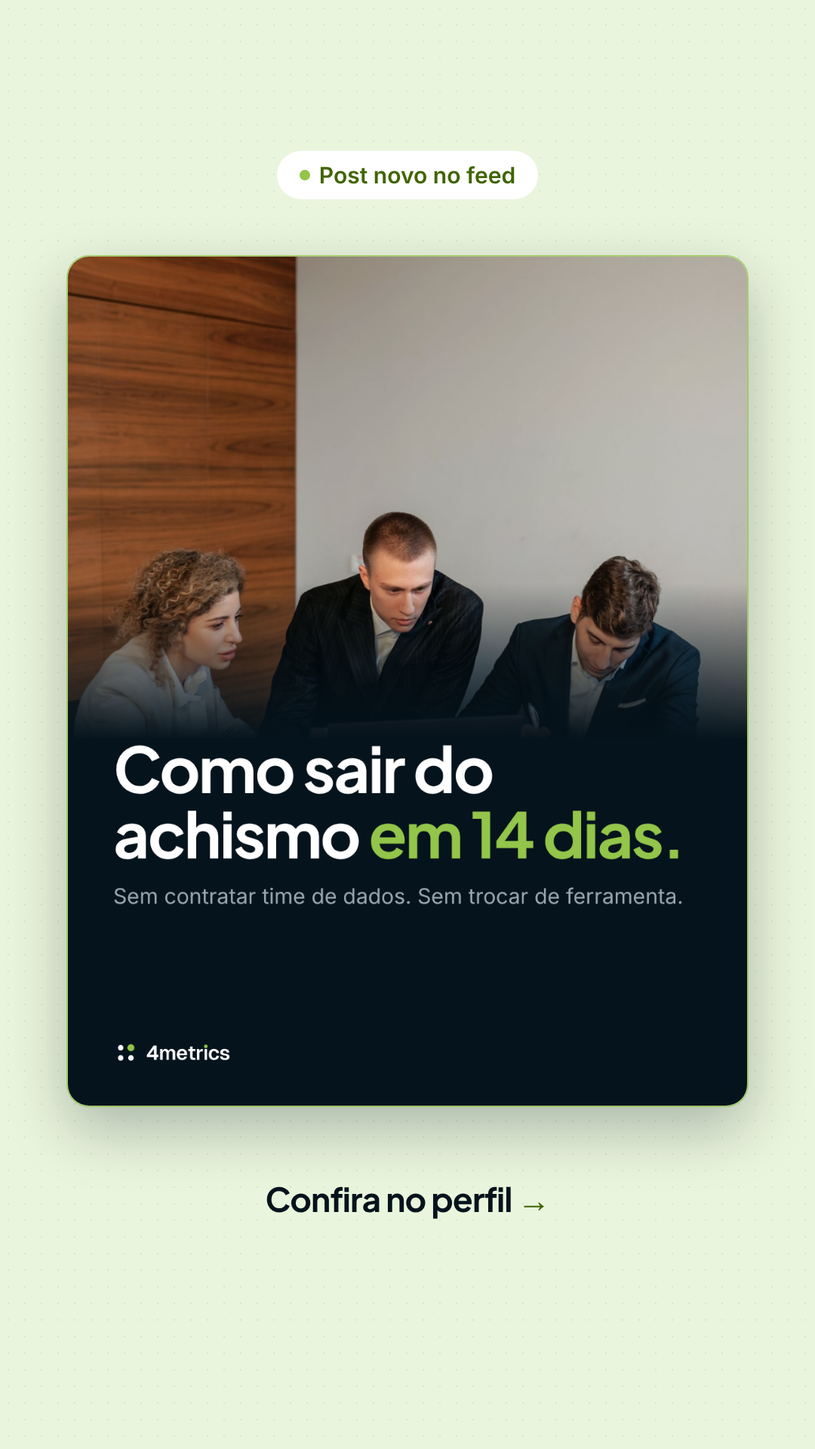
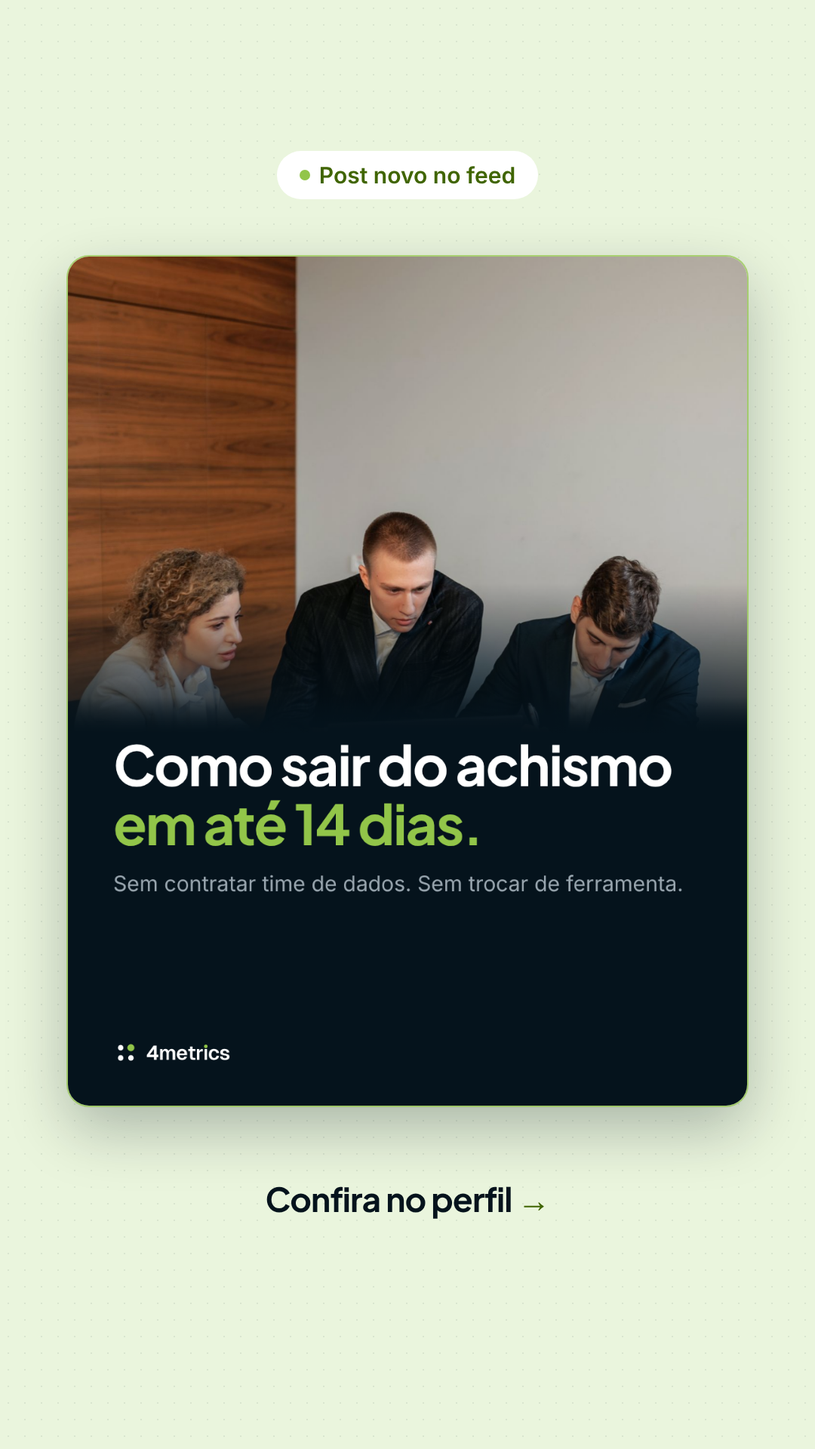
Pauta do site v2: fotos de banco de imagem nas capas do feed e na abertura dos stories
Claude-Session: https://claude.ai/code/session_01Kt7fy7HPrgyLGaKQANdjYb

Changed region(s): [[0.1222, 0.5, 0.825, 0.625]]

diff --git a/kit/tools/pauta_site.py b/kit/tools/pauta_site.py
@@ -15,6 +15,11 @@ BG = {
  "claro": (f"{DOTL},radial-gradient(700px 700px at 95% 0%,rgba(146,197,73,.22),transparent 65%),#FFFFFF", "l"),
  "lima": (f"radial-gradient(rgba(5,19,28,.10) 1px,transparent 1.2px) 0 0/22px 22px,linear-gradient(200deg,#B5DB7E 0%,{LIME} 45%,#7FB23A 100%)", "m"),
 }
+PH = "/home/claude/out/stock/full"
+def phbg(pid, pos="center"):
+    return (f"{DOTD},linear-gradient(180deg,rgba(5,19,28,.18) 0%,rgba(5,19,28,.58) 38%,rgba(5,19,28,.93) 100%),radial-gradient(900px 700px at 90% 0%,rgba(146,197,73,.35),transparent 60%),url(file://{PH}/{pid}.jpg) {pos}/cover no-repeat", "d")
+def phcard(pid, h, radius="28px", pos="center", extra=""):
+    return f'<div class="feat" style="position:relative;height:{h}px;border-radius:{radius};overflow:hidden;background:linear-gradient(200deg,rgba(146,197,73,.28),rgba(5,19,28,0) 45%),url(file://{PH}/{pid}.jpg) {pos}/cover;{extra}"></div>'
 CSS = ff + f"""*{{box-sizing:border-box}} body{{margin:0;background:#777}}
 .f{{position:relative;overflow:hidden;font-family:'Inter';display:flex;flex-direction:column;margin-bottom:20px}}
 .fe{{width:1080px;height:1350px;padding:72px 72px 150px;gap:30px}}
@@ -47,7 +52,7 @@ def pillc(t):
     return {"l": f"background:#fff;color:{G};border:1px solid #CFE3B6", "d": f"background:rgba(146,197,73,.16);color:{LIME};border:1px solid rgba(146,197,73,.45)", "m": f"background:rgba(255,255,255,.4);color:{NAVY};border:1px solid rgba(5,19,28,.2)"}[t]
 FR = []
 def frame(name, kind, bg, body, pill=None, logo=True):
-    css, t = BG[bg]
+    css, t = phbg(*bg.split(":")[1:]) if bg.startswith("ph:") else BG[bg]
     ink = "#fff" if t == "d" else NAVY
     acc = "#FFFFFF" if t == "m" else LIME
     lg = f'<div class="foot">{SYM(44 if kind=="st" else 40,dots=ink,accent=acc)}{WORD(36 if kind=="st" else 32,ink,acc)}</div>' if logo else ""
@@ -74,15 +79,15 @@ def metric_card(kind):
 {line("Fórmula","receita faturada ÷ pedidos")}{line("Fonte","ERP")}{line("Versão","v3 · aprovada pelo comercial")}{line("Usada em","painel · alerta · resumo · sua IA")}</div>'''
 
 # ======================= T10 · 67% · 04/12 · estático névoa
-frame("2026-12-04-confianca-67-v1","fe","nevoa",f'''
-<div style="display:flex;flex-direction:column;gap:6px;margin-top:6px"><div class="pj" style="font-size:230px;line-height:210px;letter-spacing:-0.05em;color:{G}">67%</div>
+frame("2026-12-04-confianca-67-v2","fe","nevoa",f'''
+<div style="display:flex;flex-direction:column;gap:6px;margin-top:6px"><div style="display:flex;align-items:center;gap:36px"><div class="pj" style="font-size:210px;line-height:190px;letter-spacing:-0.05em;color:{G}">67%</div><div style="flex:1">{phcard("5716001",190,"999px","center")}</div></div>
 <h1 style="font-size:66px;line-height:74px">das organizações ainda não confiam totalmente <span class="hl">nos dados que usam para decidir.</span></h1></div>
 <div class="mid"><div class="card" style="padding:34px 38px;display:flex;flex-direction:column;gap:22px">
 {"".join(f'<div style="display:flex;align-items:center;gap:22px"><span style="width:96px;font-size:26px;font-weight:600" class="mut">{y}</span><div style="flex:1;height:44px;border-radius:12px;background:#EEF2EF;overflow:hidden"><div style="width:{v}%;height:100%;border-radius:12px;background:{c}"></div></div><span class="pj" style="width:100px;font-size:36px;text-align:right">{v}%</span></div>' for y,v,c in (("2023",55,"#C9DEB0"),("2024",67,LIME)))}
 <span class="mut" style="font-size:24px">A desconfiança cresceu em um ano.</span></div></div>
 <div style="position:absolute;right:72px;bottom:58px;text-align:right" class="src mut">Fonte: Precisely e Drexel University,<br>2025 Outlook: Data Integrity Trends and Insights</div>''', "Dados de mercado")
-S = "2026-12-04-st-confianca-67"
-frame(S+"-01","st","mesh",f'<div class="mid" style="gap:40px"><h1 style="font-size:128px;line-height:130px">2 em cada 3 empresas <span class="hl">não confiam no próprio número.</span></h1></div>',"Dados de mercado")
+S = "2026-12-04-st-confianca-67-v2"
+frame(S+"-01","st","ph:3184292",f'<div class="mid" style="gap:40px"><h1 style="font-size:128px;line-height:130px">2 em cada 3 empresas <span class="hl">não confiam no próprio número.</span></h1></div>',"Dados de mercado")
 frame(S+"-02","st","nevoa",f'''<h1>E a desconfiança <span class="hl">está crescendo.</span></h1><div class="mid" style="gap:30px">
 {"".join(f'<div style="display:flex;flex-direction:column;gap:14px"><div style="display:flex;justify-content:space-between"><span class="mut" style="font-size:34px;font-weight:600">{y}</span><span class="pj" style="font-size:72px">{v}%</span></div><div style="height:56px;border-radius:14px;background:#E3EADF;overflow:hidden"><div style="width:{v}%;height:100%;background:{c}"></div></div></div>' for y,v,c in (("2023",55,"#C9DEB0"),("2024",67,LIME)))}
 <p class="src mut" style="margin-top:20px">Organizações que não confiam totalmente nos dados que usam para decidir. Fonte: Precisely e Drexel University, 2025 Outlook: Data Integrity Trends and Insights.</p></div>''')
@@ -90,8 +95,8 @@ frame(S+"-03","st","dark",f'<h1>O sintoma: <span class="hl">cada área chega com
 frame(S+"-04","st","lima",f'<h1>Com a 4metrics: <span class="hl">um número oficial.</span></h1><div class="mid" style="gap:40px">{oficial("st")}<p class="lead mut">Uma regra por métrica, verificada, igual para todo mundo.</p>{cta("st","Responda: DIAGNÓSTICO")}</div>')
 
 # ======================= T6 · fila · 07/12 · stories (feed = Reel)
-S = "2026-12-07-st-fila-relatorios"
-frame(S+"-01","st","dark",f'<div class="mid"><h1 style="font-size:124px;line-height:128px">Seu time de dados virou <span class="hl">fila de relatórios?</span></h1></div>',"Custo da demora")
+S = "2026-12-07-st-fila-relatorios-v2"
+frame(S+"-01","st","ph:7688336",f'<div class="mid"><h1 style="font-size:124px;line-height:128px">Seu time de dados virou <span class="hl">fila de relatórios?</span></h1></div>',"Custo da demora")
 tk = [("#124","Receita por canal","há 6 dias"),("#125","CAC de outubro","há 4 dias"),("#126","Leads parados no funil","há 3 dias"),("#127","Meta x realizado por loja","há 1 dia")]
 frame(S+"-02","st","nevoa",f'''<h1>Um pedido <span class="hl">para cada número.</span></h1><div class="mid" style="gap:16px">
 {"".join(f'<div class="card" style="padding:28px 32px;display:flex;align-items:center;gap:22px"><span class="pj mut" style="font-size:30px">{a}</span><span style="flex:1;font-size:34px;font-weight:600">{b}</span><span style="font-size:26px;color:{AMB};font-weight:600">{c}</span></div>' for a,b,c in tk)}
@@ -102,9 +107,9 @@ frame(S+"-03","st","sweep",f'''<h1>Com a 4metrics, <span class="hl">pergunte e r
 frame(S+"-04","st","mesh",f'<div class="mid" style="gap:44px"><h1>E o time de dados <span class="hl">volta a melhorar o dado.</span></h1><p class="lead mut">Comercial e marketing saem da fila. A resposta chega com o próximo passo.</p>{cta("st","Responda: DIAGNÓSTICO")}</div>')
 
 # ======================= T1 · métricas oficiais · 14/12 · carrossel névoa 5
-C = "2026-12-14-metricas-oficiais-v1"
+C = "2026-12-14-metricas-oficiais-v2"
 frame(C+"-01","fe","nevoa",f'''<h1 style="font-size:104px;line-height:108px">Acabou a briga pelo <span class="hl">número certo.</span></h1>
-<div class="mid" style="gap:22px">{nums("fe",True)}<div style="text-align:center;font-size:40px" class="hl">↓</div>{oficial("fe")}</div>''',"Métricas oficiais")
+<div class="mid" style="gap:0">{phcard("3184339",440)}<div style="margin:-110px 36px 0;position:relative">{oficial("fe")}</div></div>''',"Métricas oficiais")
 frame(C+"-02","fe","dark",f'''<p class="lead mut">"Quanto vendemos este mês?"</p><h1>Três ferramentas. <span class="hl">Três números.</span></h1>
 <div class="mid" style="gap:30px">{nums("fe")}<p class="lead mut">E a reunião discute qual está certo.</p></div>''')
 frame(C+"-03","fe","nevoa2",f'''<h1>Uma regra <span class="hl">por métrica.</span></h1><p class="lead mut">Conversão, ticket médio, meta e receita: definidas uma vez com o seu time.</p><div class="mid">{metric_card("fe")}</div>''')
@@ -114,8 +119,8 @@ frame(C+"-04","fe","claro",f'''<h1>Verificado <span class="hl">antes de publicar
 frame(C+"-05","fe","nevoa",f'''<h1>Igual <span class="hl">em todo lugar.</span></h1><div class="mid" style="gap:30px">
 <div style="display:flex;flex-wrap:wrap;gap:14px">{"".join(f'<span class="chip">{x}</span>' for x in ("Painel","Alerta","Resumo diário","Agentes de IA"))}</div>
 <p class="lead">Uma regra, um número oficial e a mesma resposta para o seu time e para os seus agentes de IA.</p>{cta("fe")}</div>''')
-S = "2026-12-14-st-metricas-oficiais"
-frame(S+"-01","st","mesh",f'<div class="mid"><h1 style="font-size:132px;line-height:134px">Qual número <span class="hl">está certo?</span></h1></div>',"Métricas oficiais")
+S = "2026-12-14-st-metricas-oficiais-v2"
+frame(S+"-01","st","ph:3183197",f'<div class="mid"><h1 style="font-size:132px;line-height:134px">Qual número <span class="hl">está certo?</span></h1></div>',"Métricas oficiais")
 frame(S+"-02","st","dark",f'<h1>Planilha, Power BI e relatório. <span class="hl">Três respostas.</span></h1><div class="mid">{nums("st")}</div>')
 frame(S+"-03","st","nevoa",f'<h1>Na 4metrics, <span class="hl">cada métrica tem uma regra oficial.</span></h1><div class="mid">{metric_card("st")}</div>')
 frame(S+"-04","st","lima",f'<div class="mid" style="gap:44px"><h1>A reunião discute <span class="hl">o que fazer.</span></h1><p class="lead mut">Não qual número está certo.</p>{cta("st","Responda: DIAGNÓSTICO")}</div>')
@@ -123,18 +128,18 @@ frame(S+"-04","st","lima",f'<div class="mid" style="gap:44px"><h1>A reunião dis
 # ======================= T7 · segurança · 21/12 · estático névoa
 seals = ["Conformidade com a LGPD","Criptografia","Acesso auditável","Verificação em duas etapas","DPA disponível"]
 seal = lambda kind, x: f'<div class="card" style="padding:{28 if kind=="fe" else 34}px 30px;display:flex;align-items:center;gap:20px;font-size:{30 if kind=="fe" else 36}px;font-weight:600"><span style="width:56px;height:56px;border-radius:16px;background:{NAVY};display:flex;align-items:center;justify-content:center;flex:none"><svg width="28" height="28" viewBox="0 0 24 24"><path d="M5 12.5l4.5 4.5L19 7.5" stroke="{LIME}" stroke-width="3" fill="none" stroke-linecap="round" stroke-linejoin="round"/></svg></span>{x}</div>'
-frame("2026-12-21-seguranca-v1","fe","nevoa2",f'''<h1 style="font-size:96px;line-height:100px">Seus dados protegidos <span class="hl">do início ao fim.</span></h1>
+frame("2026-12-21-seguranca-v2","fe","nevoa2",f'''<div style="display:flex;align-items:center;gap:30px"><h1 style="flex:1;font-size:84px;line-height:90px">Seus dados protegidos <span class="hl">do início ao fim.</span></h1><div style="width:270px;flex:none">{phcard("1181467",270,"999px","30% center")}</div></div>
 <div class="mid" style="gap:14px">{"".join(seal("fe",x) for x in seals)}</div>
 <p class="lead mut" style="font-size:28px;line-height:38px">E os seus agentes de IA executam com a sua aprovação.</p>''',"Segurança")
-S = "2026-12-21-st-seguranca"
-frame(S+"-01","st","dark",f'<div class="mid"><h1 style="font-size:120px;line-height:124px">IA com os dados da empresa. <span class="hl">E a segurança?</span></h1></div>',"Segurança")
+S = "2026-12-21-st-seguranca-v2"
+frame(S+"-01","st","ph:3861969",f'<div class="mid"><h1 style="font-size:120px;line-height:124px">IA com os dados da empresa. <span class="hl">E a segurança?</span></h1></div>',"Segurança")
 frame(S+"-02","st","sweep",f'''<h1>Com IA genérica, <span class="hl">o controle sai da sua mão.</span></h1><div class="mid">{rows("st",["Dados da empresa e de clientes fora do seu controle","Sem rastreabilidade de onde o número veio","A responsabilidade continua sendo sua"])}</div>''')
 frame(S+"-03","st","nevoa",f'<h1>Na 4metrics, <span class="hl">segurança vem de fábrica.</span></h1><div class="mid" style="gap:16px">{"".join(seal("st",x) for x in seals)}</div>')
 frame(S+"-04","st","mesh",f'<div class="mid" style="gap:44px"><h1>O mesmo controle de acesso <span class="hl">também na sua IA.</span></h1><p class="lead mut">Seus agentes executam com a sua aprovação. E fica registrado.</p>{cta("st","Responda: DIAGNÓSTICO")}</div>')
 
 # ======================= T2 · regra muda · 06/01 · stories (feed = Reel)
-S = "2027-01-06-st-regra-muda"
-frame(S+"-01","st","mesh",f'<div class="mid"><h1 style="font-size:132px;line-height:134px">E quando <span class="hl">a regra muda?</span></h1><p class="lead mut" style="margin-top:30px">O CPL passa a contar só lead qualificado.</p></div>',"Métricas oficiais")
+S = "2027-01-06-st-regra-muda-v2"
+frame(S+"-01","st","ph:669615",f'<div class="mid"><h1 style="font-size:132px;line-height:134px">E quando <span class="hl">a regra muda?</span></h1><p class="lead mut" style="margin-top:30px">O CPL passa a contar só lead qualificado.</p></div>',"Métricas oficiais")
 redo = lambda x: f'<div class="card" style="padding:30px 34px;display:flex;justify-content:space-between;align-items:center;font-size:38px;font-weight:600"><span>{x}</span><span style="font-size:30px;color:{AMB}">refazer</span></div>'
 frame(S+"-02","st","nevoa",f'<h1>Sem uma regra oficial, <span class="hl">tudo é refeito.</span></h1><div class="mid" style="gap:16px">{redo("Planilha")}{redo("Power BI")}{redo("Relatório")}<p class="lead mut" style="margin-top:18px">Por semanas, cada um mostra uma regra.</p></div>')
 ver = f'''<div class="card" style="padding:34px 38px;display:flex;flex-direction:column;gap:22px">
@@ -145,17 +150,18 @@ frame(S+"-03","st","dark",f'<h1>Na 4metrics, a regra muda <span class="hl">uma v
 frame(S+"-04","st","lima",f'<div class="mid" style="gap:40px"><h1>No mesmo dia, <span class="hl">em todo lugar.</span></h1><div style="display:flex;flex-wrap:wrap;gap:14px">{"".join(f"<span class=chip>{x}</span>" for x in ("Painel","Alerta","Sua IA"))}</div>{cta("st","Responda: DIAGNÓSTICO")}</div>')
 
 # ======================= T3 · camada semântica · 08/01 · estático névoa
-frame("2027-01-08-camada-semantica-v1","fe","nevoa",f'''<h1 style="font-size:92px;line-height:98px">A IA consulta a métrica pronta. <span class="hl">Nunca a tabela crua.</span></h1>
-<div class="mid">{metric_card("fe")}</div><p class="lead mut" style="font-size:28px;line-height:38px">Camada semântica: as métricas oficiais com nome, fórmula e versão.</p>''',"Camada semântica")
-S = "2027-01-08-st-camada-semantica"
-frame(S+"-01","st","dark",f'<div class="mid"><h1 style="font-size:128px;line-height:132px">Por que a IA <span class="hl">erra o número?</span></h1></div>',"Camada semântica")
+frame("2027-01-08-camada-semantica-v2","fe","nevoa",f'''<h1 style="font-size:92px;line-height:98px">A IA consulta a métrica pronta. <span class="hl">Nunca a tabela crua.</span></h1>
+<div class="mid" style="gap:0">{phcard("7213549",300)}<div style="margin:-80px 30px 0;position:relative">{metric_card("fe")}</div></div><p class="lead mut" style="font-size:28px;line-height:38px">Camada semântica: as métricas oficiais com nome, fórmula e versão.</p>''',"Camada semântica")
+S = "2027-01-08-st-camada-semantica-v2"
+frame(S+"-01","st","ph:6801648",f'<div class="mid"><h1 style="font-size:128px;line-height:132px">Por que a IA <span class="hl">erra o número?</span></h1></div>',"Camada semântica")
 frame(S+"-02","st","sweep",f'''<h1>Ela não conhece <span class="hl">as regras do seu negócio.</span></h1><p class="lead mut">Para acertar, a IA precisa de três coisas:</p><div class="mid">{rows("st",["Contexto do negócio: metas, regras e o que cada área chama de venda","Contexto dos dados: de onde vem cada número","Camada semântica: as métricas oficiais"])}</div>''')
 frame(S+"-03","st","nevoa",f'<h1>A métrica pronta, <span class="hl">com nome, fórmula e versão.</span></h1><div class="mid">{metric_card("st")}</div>')
 frame(S+"-04","st","mesh",f'<div class="mid" style="gap:44px"><h1>O mesmo contexto <span class="hl">em todo lugar.</span></h1><p class="lead mut">No painel, no alerta, no chat e na sua IA via MCP.</p>{cta("st","Responda: DIAGNÓSTICO")}</div>')
 
 # ======================= T5 · time de dados · 11/01 · carrossel claro 5
-C = "2027-01-11-sem-time-de-dados-v1"
-frame(C+"-01","fe","claro",f'''<div class="mid" style="gap:40px"><h1 style="font-size:104px;line-height:108px">Você não precisa de um time de dados.</h1><h1 style="font-size:104px;line-height:108px" class="hl">Você precisa da resposta.</h1></div>''',"Revenue Intelligence")
+C = "2027-01-11-sem-time-de-dados-v2"
+frame(C+"-01","fe","claro",f'''<h1 style="font-size:88px;line-height:92px">Você não precisa de um time de dados. <span class="hl">Você precisa da resposta.</span></h1>
+<div class="mid">{phcard("3182812",560,"300px 300px 28px 28px","center 30%")}</div>''',"Revenue Intelligence")
 frame(C+"-02","fe","nevoa",f'''<h1>Montar um time de dados <span class="hl">é caro e demorado.</span></h1><div class="mid">{rows("fe",["Contratar e reter especialistas","Conectar e manter as fontes","Criar e ajustar as regras do negócio","Atender a fila de pedidos"])}</div>''')
 tb = [("Quem faz","Você contrata um projeto","O seu time monta","A 4metrics faz, sempre"),("O que recebe","Dashboard no fim","Ferramentas para montar","Resposta com o próximo passo"),("1ª resposta","Semanas a meses","Depende do seu time","Até 14 dias"),("Negócio mudou","Novo orçamento","O seu time refaz","A 4metrics ajusta"),("Pronto para IA","Fora do escopo","Se o seu time montar","Sim, via MCP")]
 th = '<div style="display:grid;grid-template-columns:200px 1fr 1fr 1.1fr;gap:0">' + "".join(f'<div style="padding:16px 12px;font-size:20px;font-weight:700;{"color:"+G if i==3 else "color:"+MUTL}">{h}</div>' for i,h in enumerate(["","Consultoria de BI","Plataforma de dados","4metrics"]))
@@ -165,15 +171,15 @@ frame(C+"-03","fe","claro",f'<h1 style="font-size:72px;line-height:78px">Consult
 frame(C+"-04","fe","dark",f'<h1>A fundação <span class="hl">é com a gente.</span></h1><div class="mid">{flow("fe",["Mapeamento: entendemos o negócio antes do dado","Acesso: você libera, nós conectamos","Extração: os dados chegam sozinhos, todo dia","Modelagem: um número só, com uma regra só","Manutenção: a fundação não para no primeiro dia"])}</div>')
 frame(C+"-05","fe","claro",f'''<div class="mid" style="gap:30px"><div style="display:flex;align-items:baseline;gap:20px"><span class="pj mut" style="font-size:52px">até</span><span class="pj hl" style="font-size:250px;line-height:220px;letter-spacing:-0.05em">14</span><span class="pj" style="font-size:64px">dias</span></div>
 <h1 style="font-size:72px;line-height:78px">para o primeiro insight.</h1><p class="lead mut">Sem montar time de dados. Sem trocar suas ferramentas.</p>{cta("fe")}</div>''')
-S = "2027-01-11-st-sem-time-de-dados"
-frame(S+"-01","st","mesh",f'<div class="mid"><h1 style="font-size:124px;line-height:128px">Precisa contratar <span class="hl">um time de dados?</span></h1></div>',"Revenue Intelligence")
+S = "2027-01-11-st-sem-time-de-dados-v2"
+frame(S+"-01","st","nevoa",f'<h1 style="font-size:112px;line-height:116px">Precisa contratar <span class="hl">um time de dados?</span></h1><div class="mid">{phcard("5439381",760,"400px 400px 28px 28px")}</div>',"Revenue Intelligence")
 frame(S+"-02","st","nevoa",f'<div class="mid" style="gap:40px"><div class="pj hl" style="font-size:220px;line-height:200px">Não.</div><p class="lead">O time da 4metrics conecta as fontes, cria as métricas e ajusta as regras quando o seu negócio muda.</p></div>')
 frame(S+"-03","st","dark",f'<h1>A fundação <span class="hl">é com a gente.</span></h1><div class="mid">{flow("st",["Mapeamento","Acesso","Extração","Modelagem","Manutenção"])}</div>')
 frame(S+"-04","st","lima",f'<div class="mid" style="gap:40px"><h1>Primeiro insight <span class="hl">em até 14 dias.</span></h1>{cta("st","Responda: DIAGNÓSTICO")}</div>')
 
 # ======================= T4 · agentes · 13/01 · stories (feed = Reel)
-S = "2027-01-13-st-agentes-aprovacao"
-frame(S+"-01","st","dark",f'<div class="mid"><h1 style="font-size:120px;line-height:124px">E se a IA executasse <span class="hl">o próximo passo?</span></h1></div>',"Agentes de IA")
+S = "2027-01-13-st-agentes-aprovacao-v2"
+frame(S+"-01","st","ph:7567443",f'<div class="mid"><h1 style="font-size:120px;line-height:124px">E se a IA executasse <span class="hl">o próximo passo?</span></h1></div>',"Agentes de IA")
 frame(S+"-02","st","sweep",f'<h1>Do gargalo <span class="hl">à execução.</span></h1><div class="mid">{flow("st",["A 4metrics encontra o gargalo","O próximo passo vai para o seu agente","Você aprova","Ele executa no CRM e fica registrado"])}</div>')
 appr = f'''<div class="card feat" style="padding:36px 40px;display:flex;flex-direction:column;gap:26px">
 <span style="font-size:28px;font-weight:700;color:{G}">PRÓXIMO PASSO</span><span style="font-size:42px;line-height:56px;font-weight:600">Priorizar os contatos parados há mais de 30 dias.</span>
@@ -183,38 +189,38 @@ frame(S+"-04","st","mesh",f'<div class="mid" style="gap:44px"><h1>Você decide q
 
 # ======================= T8 · parceiros · 15/01 · estático lima
 ptile = lambda kind, x: f'<div class="card" style="padding:{34 if kind=="fe" else 40}px 38px;display:flex;align-items:center;gap:22px"><i style="width:18px;height:18px;border-radius:9px;background:#fff;box-shadow:0 0 0 4px {NAVY};flex:none"></i><span class="pj" style="font-size:{48 if kind=="fe" else 54}px">{x}</span></div>'
-frame("2027-01-15-parceiros-v1","fe","lima",f'''<h1 style="font-size:96px;line-height:100px">Parceiros oficiais <span class="hl">de quem faz a IA.</span></h1>
+frame("2027-01-15-parceiros-v2","fe","lima",f'''<div style="display:flex;align-items:center;gap:30px"><h1 style="flex:1;font-size:84px;line-height:90px">Parceiros oficiais <span class="hl">de quem faz a IA.</span></h1><div style="width:260px;flex:none">{phcard("3184465",260,"999px")}</div></div>
 <div class="mid" style="gap:16px">{ptile("fe","Google Cloud")}{ptile("fe","Gemini Enterprise")}{ptile("fe","Claude Partner Network")}</div>
 <p class="lead mut" style="font-size:28px;line-height:38px">Seus números oficiais chegam a qualquer IA por uma conexão única.</p>''',"Parceiros")
-S = "2027-01-15-st-parceiros"
-frame(S+"-01","st","mesh",f'<div class="mid"><h1 style="font-size:124px;line-height:128px">Com quem <span class="hl">a 4metrics trabalha?</span></h1></div>',"Parceiros")
+S = "2027-01-15-st-parceiros-v2"
+frame(S+"-01","st","ph:5673488",f'<div class="mid"><h1 style="font-size:124px;line-height:128px">Com quem <span class="hl">a 4metrics trabalha?</span></h1></div>',"Parceiros")
 frame(S+"-02","st","lima",f'<h1>Parceiros <span class="hl">oficiais.</span></h1><div class="mid" style="gap:18px">{ptile("st","Google Cloud")}{ptile("st","Gemini Enterprise")}{ptile("st","Claude Partner Network")}</div>')
 frame(S+"-03","st","dark",f'<h1>Uma conexão única <span class="hl">para qualquer IA.</span></h1><div class="mid" style="gap:30px"><div style="display:flex;flex-wrap:wrap;gap:16px">{"".join(f"<span class=chip>{x}</span>" for x in ("ChatGPT","Claude","Gemini","Copilot"))}</div><p class="lead mut">Quando a sua empresa trocar ou adicionar uma IA, ela já lê os mesmos números.</p></div>')
 frame(S+"-04","st","nevoa",f'<div class="mid" style="gap:44px"><h1>Sua empresa pronta <span class="hl">para cada nova IA.</span></h1>{cta("st","Responda: DIAGNÓSTICO")}</div>')
 
 # ======================= T9 · BI e company brain · 18/01 · carrossel claro 4
-C = "2027-01-18-bi-company-brain-v1"
-frame(C+"-01","fe","claro",f'''<div class="mid" style="gap:36px"><p class="lead mut">As dúvidas que ouvimos antes de todo diagnóstico.</p><h1 style="font-size:100px;line-height:104px">"Já tenho BI. <span class="hl">Faz sentido?"</span></h1>
-<div style="display:flex;flex-wrap:wrap;gap:14px">{"".join(f"<span class=chip>{x}</span>" for x in ("BI","Company brain","MCP do CRM"))}</div></div>''',"FAQ")
+C = "2027-01-18-bi-company-brain-v2"
+frame(C+"-01","fe","claro",f'''<div class="mid" style="flex-direction:row;align-items:center;gap:36px"><div style="flex:1;display:flex;flex-direction:column;gap:30px"><p class="lead mut">As dúvidas que ouvimos antes de todo diagnóstico.</p><h1 style="font-size:88px;line-height:92px">"Já tenho BI. <span class="hl">Faz sentido?"</span></h1>
+<div style="display:flex;flex-wrap:wrap;gap:14px">{"".join(f"<span class=chip>{x}</span>" for x in ("BI","Company brain","MCP do CRM"))}</div></div><div style="width:400px;flex:none">{phcard("8867431",720,"200px 200px 28px 28px","60% center")}</div></div>''',"FAQ")
 hub = lambda kind, a, b: f'''<div style="display:flex;align-items:center;gap:22px"><div class="card" style="flex:1;padding:40px 24px;text-align:center"><span class="pj" style="font-size:{40 if kind=="fe" else 46}px">{a}</span></div>
 <span class="pj hl" style="font-size:54px">⇄</span><div class="card feat" style="flex:1;padding:30px 24px;display:flex;flex-direction:column;align-items:center;gap:12px">{SYM(80,dots=NAVY,accent=LIME)}<span class="pj" style="font-size:{34 if kind=="fe" else 40}px">{b}</span></div></div>'''
 frame(C+"-02","fe","nevoa",f'<h1>"A 4metrics substitui <span class="hl">o meu BI?"</span></h1><p class="lead">Pode substituir, mas não precisa. Funciona junto com o BI que você já usa e tira o comercial da fila de pedidos.</p><div class="mid">{hub("fe","Seu BI","4metrics")}</div>')
 frame(C+"-03","fe","claro",f'<h1>"Já usamos <span class="hl">um company brain."</span></h1><p class="lead">Ele conhece documentos e conversas. A 4metrics entrega para ele os números oficiais e o próximo passo, via MCP.</p><div class="mid">{hub("fe","Company brain","Números oficiais")}</div>')
 frame(C+"-04","fe","nevoa2",f'''<h1>"Já tenho o MCP <span class="hl">do meu CRM."</span></h1><p class="lead">O MCP de uma ferramenta mostra só essa ferramenta. A 4metrics relaciona todas as fontes com as regras oficiais, em uma conexão única.</p>
 <div class="mid" style="gap:28px"><div style="display:flex;flex-wrap:wrap;gap:12px">{"".join(f"<span class=chip>{x}</span>" for x in ("CRM","ERP","Mídias","Planilhas"))}<span class="chip" style="background:{NAVY};color:#fff;border:none">→ 1 conexão</span></div>{cta("fe")}</div>''')
-S = "2027-01-18-st-bi-company-brain"
-frame(S+"-01","st","dark",f'<div class="mid"><h1 style="font-size:116px;line-height:120px">3 dúvidas antes <span class="hl">de todo diagnóstico.</span></h1></div>',"FAQ")
+S = "2027-01-18-st-bi-company-brain-v2"
+frame(S+"-01","st","sweep",f'<h1 style="font-size:108px;line-height:112px">3 dúvidas antes <span class="hl">de todo diagnóstico.</span></h1><div class="mid">{phcard("5668858",760,"28px 400px 28px 28px","40% center")}</div>',"FAQ")
 frame(S+"-02","st","nevoa",f'<h1>"Substitui <span class="hl">o meu BI?"</span></h1><div class="mid" style="gap:30px"><div class="pj hl" style="font-size:96px">Pode. Mas não precisa.</div><p class="lead">A 4metrics funciona junto com o BI que você já usa.</p></div>')
 frame(S+"-03","st","sweep",f'<h1>"Já temos <span class="hl">um company brain."</span></h1><div class="mid" style="gap:30px">{hub("st","Company brain","Números oficiais")}<p class="lead mut">A 4metrics entrega os números oficiais e o próximo passo, via MCP.</p></div>')
 frame(S+"-04","st","mesh",f'<div class="mid" style="gap:40px"><h1>"Já tenho o MCP <span class="hl">do CRM."</span></h1><p class="lead mut">Ele mostra só o CRM. A 4metrics junta todas as fontes, com as regras oficiais.</p>{cta("st","Responda: DIAGNÓSTICO")}</div>')
 
 # ======================= T11 · demo + diagnóstico · 20/01 · estático escuro
 two = lambda kind, n, u, t: f'<div class="card" style="flex:1;padding:36px 32px;display:flex;flex-direction:column;gap:16px"><div style="display:flex;align-items:baseline;gap:10px"><span class="pj hl" style="font-size:{150 if kind=="fe" else 170}px;line-height:1;letter-spacing:-0.05em">{n}</span><span class="pj" style="font-size:44px">{u}</span></div><span style="font-size:{28 if kind=="fe" else 34}px;line-height:1.35">{t}</span></div>'
-frame("2027-01-20-demo-diagnostico-v1","fe","glow",f'''<h1 style="font-size:96px;line-height:100px">Dois jeitos de <span class="hl">conhecer a 4metrics.</span></h1>
+frame("2027-01-20-demo-diagnostico-v2","fe","ph:7651922",f'''<h1 style="font-size:96px;line-height:100px">Dois jeitos de <span class="hl">conhecer a 4metrics.</span></h1>
 <div class="mid"><div style="display:flex;gap:18px">{two("fe","3","min","Demo: veja a 4metrics encontrar um gargalo de receita.")}{two("fe","30","min","Diagnóstico gratuito: mapeamos onde o dado trava a sua decisão.")}</div></div>
 <span class="btn" style="margin-bottom:10px">Comente DIAGNÓSTICO</span>''',"Comece aqui")
-S = "2027-01-20-st-demo-diagnostico"
-frame(S+"-01","st","mesh",f'<div class="mid"><h1 style="font-size:124px;line-height:128px">Dois jeitos de <span class="hl">conhecer a 4metrics.</span></h1></div>',"Comece aqui")
+S = "2027-01-20-st-demo-diagnostico-v2"
+frame(S+"-01","st","ph:3184287",f'<div class="mid"><h1 style="font-size:124px;line-height:128px">Dois jeitos de <span class="hl">conhecer a 4metrics.</span></h1></div>',"Comece aqui")
 frame(S+"-02","st","nevoa",f'<div class="mid" style="gap:36px"><div style="display:flex">{two("st","3","min","Demo: o número oficial, o gargalo e o próximo passo, até na sua IA.")}</div><p class="lead mut">No site da 4metrics.</p></div>')
 frame(S+"-03","st","dark",f'<h1>Diagnóstico gratuito <span class="hl">de 30 minutos.</span></h1><div class="mid">{rows("st",["O mapa das suas fontes e de onde o número diverge","As decisões que mais pesam na sua receita","Onde a empresa está pronta para usar IA com segurança","Uma proposta com escopo e prazo"])}</div>')
 frame(S+"-04","st","lima",f'<div class="mid" style="gap:40px"><h1>Sem custo. <span class="hl">Sem compromisso.</span></h1><p class="lead mut">Resposta em 1 dia útil.</p>{cta("st","Responda: DIAGNÓSTICO")}</div>')

diff --git a/kit/tools/stories_como_funciona.py b/kit/tools/stories_como_funciona.py
@@ -6,6 +6,7 @@ G, MUTL, MUTD, NEV = "#406500", "#4F5B63", "#9AA7B0", "#EAF5DD"
 DOTL = "radial-gradient(rgba(5,19,28,.07) 1px,transparent 1.2px) 0 0/22px 22px"
 DOTD = "radial-gradient(rgba(255,255,255,.08) 1px,transparent 1.2px) 0 0/22px 22px"
 BG = {
+ "photo": f"{DOTD},linear-gradient(180deg,rgba(5,19,28,.18) 0%,rgba(5,19,28,.58) 38%,rgba(5,19,28,.93) 100%),radial-gradient(900px 700px at 90% 0%,rgba(146,197,73,.35),transparent 60%),url(file:///home/claude/out/stock/full/3184418.jpg) center/cover no-repeat",
  "mesh": f"{DOTD},radial-gradient(900px 900px at 85% 10%,rgba(146,197,73,.55),transparent 60%),radial-gradient(800px 800px at 0% 100%,rgba(146,197,73,.30),transparent 60%),linear-gradient(160deg,#0B2230 0%,{NAVY} 55%)",
  "nevoa": f"{DOTL},linear-gradient(180deg,#FFFFFF 0%,{NEV} 100%)",
  "sweep": f"{DOTL},radial-gradient(1100px 700px at 100% 0%,rgba(146,197,73,.45),transparent 65%),#FFFFFF",
@@ -33,7 +34,7 @@ def step(n, on_ink, off, cur, dark):
 
 S = []
 # 1 abertura · mesh
-S.append(st(1,"mesh","#fff",f'''<span class="pill" style="background:rgba(146,197,73,.18);color:{LIME};border:1px solid rgba(146,197,73,.5)">Como funciona</span>
+S.append(st(1,"photo","#fff",f'''<span class="pill" style="background:rgba(146,197,73,.18);color:{LIME};border:1px solid rgba(146,197,73,.5)">Como funciona</span>
 <div style="flex:1;display:flex;flex-direction:column;justify-content:center;gap:48px">
 <h1 style="font-size:132px;line-height:134px">Como funciona a <span style="color:{LIME}">4metrics?</span></h1>
 <p style="color:#C9D3D9">Do dado espalhado à resposta pronta. Em até 14&nbsp;dias.</p>
@@ -103,11 +104,11 @@ with sync_playwright() as p:
     pg = b.new_page(viewport={"width":1080,"height":1920})
     pg.goto(f"file://{D}/st.html"); pg.evaluate("document.fonts.ready"); pg.wait_for_timeout(900)
     print(pg.evaluate("""()=>[...document.querySelectorAll('section')].map(s=>{const r=s.getBoundingClientRect();return s.id+':'+[...s.querySelectorAll('*')].filter(e=>{const q=e.getBoundingClientRect();return q.width&&(q.right>r.right+1||q.bottom>r.bottom-150||q.left<r.left-1)&&!e.closest('.foot')&&e.tagName!='circle'&&e.tagName!='path'}).length})"""))
-    for i in range(0,8): pg.locator(f"#st{i}").screenshot(path=f"{D}/2026-11-23-como-funciona-v3-{i:02d}.png")
+    for i in range(0,8): pg.locator(f"#st{i}").screenshot(path=f"{D}/2026-11-23-como-funciona-v4-{i:02d}.png")
     b.close()
 from PIL import Image
 sh=Image.new('RGB',(8*370+10,660),'#888')
 for k in range(1,9):
     i = k % 8
-    sh.paste(Image.open(f"{D}/2026-11-23-como-funciona-v3-{i:02d}.png").convert('RGB').resize((360,640),Image.LANCZOS),(10+(k-1)*370,10))
+    sh.paste(Image.open(f"{D}/2026-11-23-como-funciona-v4-{i:02d}.png").convert('RGB').resize((360,640),Image.LANCZOS),(10+(k-1)*370,10))
 sh.save(f"{D}/visao-geral-como-funciona.png")
